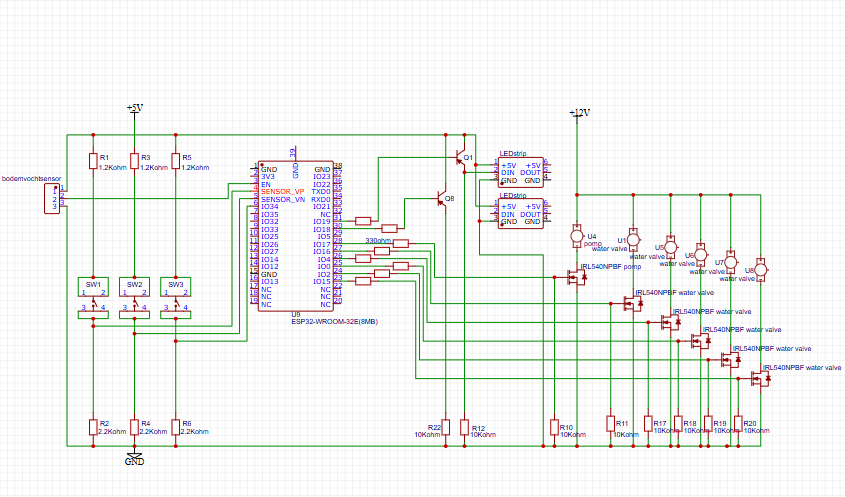
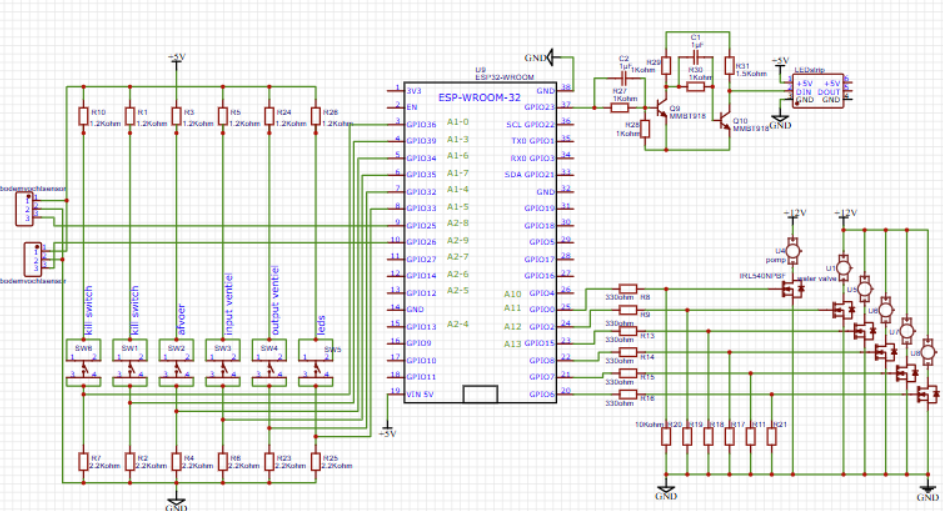
Handleiding

Changed region(s): [[0.0, 0.0604, 1.0, 1.0], [0.6769, 0.3622, 0.7077, 0.4225]]

diff --git a/code/Abstracte code/ESP32 Waterventiel + knoppen + led's/src/main.cpp b/code/Abstracte code/ESP32 Waterventiel + knoppen + led's/src/main.cpp
@@ -60,7 +60,7 @@ void ledsToColor()
 void humidityData()
 {
   int humidityValueUpper = analogRead(PIN_HUMIDITYSENSOR_UPPER);
-  int humidityValueLower = analogRead(PIN_HUMIDITYSENSOR_LOWER);
+  int humidityValueLower = analogRead(PIN_HUMIDITYSENSOR_UPPER);
   Serial.print("Humidity upper: ");
   Serial.println(humidityValueUpper);
   humidityValueUpper = humidityValueConverter(humidityValueUpper);
@@ -262,54 +262,3 @@ void loop()
 // // }
 
 
-// works for LED
-
-#include <Arduino.h>
-#include <Adafruit_NeoPixel.h>
-#include "functions.h"
-
-// Define variables
-Adafruit_NeoPixel strip = Adafruit_NeoPixel(NUM_LEDS, PIN_LEDSTRIP, NEO_GRB + NEO_KHZ800);
-
-// DONT TOUCH CODE BELOW
-void ledsToColor()
-{
-  digitalWrite(PIN_LEDSTRIP, HIGH);
-  for (int i = 0; i < NUM_LEDS; i++)
-  {
-    if (i % 4 == 0)
-    {
-      strip.setPixelColor(i, strip.Color(100, 30, 25));
-      strip.show();
-    }
-    else if (i % 4 == 1)
-    {
-      strip.setPixelColor(i, strip.Color(30, 25, 100));
-      strip.show();
-    }
-    else if (i % 4 == 3)
-    {
-      strip.setPixelColor(i, strip.Color(25, 100, 30));
-      strip.show();
-    }
-    else
-    {
-      strip.setPixelColor(i, strip.Color(100, 30, 25));
-      strip.show();
-    }
-  }
-}
-
-void setup()
-{
-  Serial.begin(115200);
-  Serial.println("Starting setup...");
-
-  ledsToColor();
-}
-// TESTEN
-
-void loop()
-{
- delay(0);
-}

diff --git a/README.md b/README.md
@@ -2,8 +2,8 @@
 
 ## Over
 
-Dit is het project meerlagen eb- en vloedkar. Dit project is deel van het vak Project Experience van [VIVES](https://www.vives.be/en).
-Het doel van dit project is een proof of concept maken van een automatisch watersysteem om planten te laten groeien op een kar.
+Dit is het project meerlagen eb- en vloedkar. Dit project maakt deel van het vak Project Experience van [VIVES](https://www.vives.be/en).
+Het doel van dit project is een proof of concept maken van een automatisch watersysteem om planten te laten groeien op een meerlagenkar.
 
 ## Inhoud
 
@@ -16,7 +16,7 @@ Het doel van dit project is een proof of concept maken van een automatisch water
 
 ## Probleemstelling
 
-Bij VIVES wordt een nieuwe serre geïnstalleerd, die niet alleen een functionele maar ook een inspirerende ruimte zal vormen voor zowel medewerkers als bezoekers. Deze serre zal een centrale rol spelen in diverse projecten die gekoppeld zijn aan het vak 'Project Experience', waarbij studenten van de opleiding "Elektronica-ICT" ervaring opdoen met innovatieve toepassingen. Een van de kernopdrachten binnen deze setting is het ontwikkelen van een automatisch irrigatiesysteem voor de planten in de serre. Het doel van dit systeem is om planten te voorzien van water zonder menselijke tussenkomst, maar er moet tegelijkertijd ook een mogelijkheid bestaan om het water handmatig te regelen wanneer dat nodig is.
+Bij VIVES is nieuwe serre geïnstalleerd, die niet alleen een functionele maar ook een inspirerende ruimte zal vormen voor zowel medewerkers als bezoekers. Deze serre zal een centrale rol spelen in diverse projecten die gekoppeld zijn aan het vak 'Project Experience', waarbij studenten van de opleiding "Elektronica-ICT" ervaring opdoen met innovatieve toepassingen. Een van de kernopdrachten binnen deze setting is het ontwikkelen van een automatisch irrigatiesysteem voor de planten in de serre. Het doel van dit systeem is om planten te voorzien van water zonder menselijke tussenkomst, maar er moet tegelijkertijd ook een mogelijkheid bestaan om het water handmatig te regelen wanneer dat nodig is.
 
 Het systeem moet worden ontworpen als een meerlagensysteem, zodat op de meerdere lagen planten op efficiënte wijze gelijktijdig bewaterd kunnen worden. Daarnaast wordt er verwacht dat de kar die in dit irrigatiesysteem wordt geïntegreerd, een eb- en vloedfunctie heeft. Dit betekent dat het overtollige water na het bewateren van de planten gemakkelijk moet kunnen weglopen uit de bak waarin de planten zich bevinden, om waterophoping te voorkomen en de gezondheid van de planten te bevorderen.
 
@@ -30,9 +30,9 @@ Wij ontwikkelen een geavanceerde eb- en vloedkar, die speciaal ontworpen is om o
 
 Om efficiënt om te gaan met waterbeheer, is er een apart reservoir geïntegreerd in het systeem, dat dient om het overtollige water dat uit de bakken vloeit op te vangen. Dit water wordt via een buizensysteem teruggeleid naar het reservoir, waarna het door een pomp opnieuw naar de planten kan worden getransporteerd. Dit zorgt voor een duurzaam en herbruikbaar irrigatiesysteem dat waterverbruik minimaliseert.
 
-De bediening van de kar is eenvoudig en gebruiksvriendelijk gemaakt door middel van vijf knoppen. De eerste knop regelt de waterstroom naar de bakken door het openen of sluiten van de waterventielen, waarmee het water kan worden toegelaten of gestopt in de doos. De tweede knop is verantwoordelijk voor het in- en uitschakelen van de LED-verlichting boven de planten. De derde knop zorgt voor het afvoeren van het water uit de doos. De vierde knop zorgt ervoor dat de waterpomp water zal pompen naar de waterventielen. De laatste knop is een "killswitch", deze zorgt ervoor dat alle automatische functionaliteiten uitgezet worden, zodat de kar kan verplaatst worden zonder problemen.
+De bediening van de kar is eenvoudig en gebruiksvriendelijk gemaakt door middel van zes knoppen. De eerste knop opent het ventiel van het GreenhouseWateringSystem naar ons reservoir. De tweede knop is activeert de pomp en opent het eerste niveau ventiel, zodat water naar de eerste bak kan vloeien en daarna naar de tweede bak. De derde knop laat het water terugstromen naar het reservoir door het openen van beide ventielen. De vierde knop zorgt ervoor dat het vuil water uit het reservoir gaat vloeien. De vijfde knop schakelt de LEDs aan of uit.De laatste knop is een "killswitch", deze zorgt ervoor dat alle automatische functionaliteiten uitgezet worden, zodat de kar kan verplaatst worden zonder problemen.
 
-Met deze combinatie van functionaliteit en eenvoud biedt de eb- en vloedkar een compleet systeem voor de verzorging van planten, dat zowel efficiënt als duurzaam is. Het stelt gebruikers in staat om op een gemakkelijke manier de watergift en verlichting te beheren, met de optie om het proces volledig te automatiseren indien gewenst. Het nadeel is wel dat je iets van technische kennis zal nodighebben om dit project te laten werken, en als je het project wil wisselen tussen standalone en deel van de serre.
+Met deze combinatie van functionaliteit en eenvoud biedt de eb- en vloedkar een compleet systeem voor de verzorging van planten, dat zowel efficiënt als duurzaam is. Het stelt gebruikers in staat om op een gemakkelijke manier de watergift en verlichting te beheren, met de optie om het proces volledig te automatiseren indien gewenst. Het nadeel is wel dat je iets van technische kennis zal nodig hebben om dit project te laten werken, en als je het project wil wisselen tussen standalone en deel van de serre.
 
 ## Elektronische hardware
 
@@ -41,7 +41,7 @@ Met deze combinatie van functionaliteit en eenvoud biedt de eb- en vloedkar een 
 - Waterpomp 12V
 - 5 x waterventiel
 - 2 x LEDstrip 5V
-- 5 x schakelaars
+- 6 x schakelaars
 - Meerdere weerstanden van verschillende waardes
 - 2 x transistor BC547B
 - 6 x mosfet IRL540NPBF
@@ -128,8 +128,6 @@ Aan onze kar hebben we onze "black box". In deze box steken we de ESP32 en ander
 
 Elke knop heeft zijn eigen functie:
 
-Dit is een korte uitleg wat elke knop doet:
-
 - #### Water toevoer
 
 Als je op deze knop drukt, opent de ventiel van het waterreservoir van het team GreenhouseWateringSystem naar ons reservoir.
@@ -162,14 +160,15 @@ De lichtsensor mochten we gebruiken van VIVES Roeselaere. Met deze sensor kunnen
 
 # Software
 
-Voor dit project werken we met Platform IO. Dit gebruiken we zodat we de library Adafruit Neopixel kunnen gebruiken om de LED's aan te sturen.
+Voor dit project werken we met Platform IO. Dit gebruiken we zodat we de library Adafruit Neopixel kunnen gebruiken om de LED's aan te sturen. Verder werken we ook met Alarm() om het automatisch proces te laten werken, en verder hebben we een apart bestand waar alles van functie definities en pin definities staan. We hebben ook een integratie met Home Assistant. Hiervoor hebben we de nodige libraries gebruikt, onze twee sensoren via hun gedefinieerd en de data van de sensoren laten doorzenden.
 
+# Handleiding
 
-# Bouw van de kast
+Als je code wilt aanpassen of nog eens wil herstarten, kan je [hier](../Project%20management/handleiding.md) een handleiding van de code vinden.
 
-- Kast 173x90x40cm
-- Flexibele buizen 10Mx16mm
-- 3 x Doos 31L
+# Eindproduct
+
+![Eindproduct](/Afbeeldingen/eindproduct.jpg)
 
 ## Het Team
 

diff --git a/Project management/handleiding.md b/Project management/handleiding.md
@@ -1,0 +1,17 @@
+# Handleiding
+
+## Code
+
+In de code heb je meerdere files. Je hebt de main.cpp en functions.h. De connection en sensor files zijn van Home Assistant, deze zijn al geconfigureerd en hoef je niet aan te passen.
+
+In de functions.h file staan alle pinouts en functie definities. In main.cpp staan de declaraties van de functies en de setup() en loop() functie. In de setup kan je functies aanroepen die enkel bij het opstarten moet aangeroepen worden. In de loop() roep je functies aan die meerdere keren gebeuren.
+
+Eenmaal aanpassingen gemaakt, kan je via het icoontje van PlatformIO (1) builden (2). Eenmaal dat het project succesvol gebuild is, dan kan je uploaden (3). Als je problemen hebt tijdens het builden, zullen er problemen in je code staan. Als je problemen hebt met het uploaden, heb je de verkeerde COMpoort staan of is er een slechte verbinding tussen je computer en de ESP.
+
+![Schema](/Afbeeldingen/Handleiding.png)
+
+## Knoppen
+
+Als je de kar een functie wil laten uitvoeren of hem afzetten, kan je het via onze knoppensysteem aan de blackbox van onze kar doen.
+
+De water toevoer knop opent het ventiel van het GreenhouseWateringSystem naar ons reservoir. De pomp knop activeert de pomp en opent het eerste niveau ventiel, zodat water naar de eerste bak kan vloeien en daarna naar de tweede bak. Met de bak legen knop stroomt het water terug naar het reservoir door het openen van beide ventielen. De water afvoer knop laat vuil water uit het reservoir vloeien. De leds knop schakelt de LEDs aan of uit. De off-knop, of killswitch, schakelt alle functionaliteit van de kar uit, inclusief de andere knoppen, zodat de kar veilig verplaatst of bewerkt kan worden.
